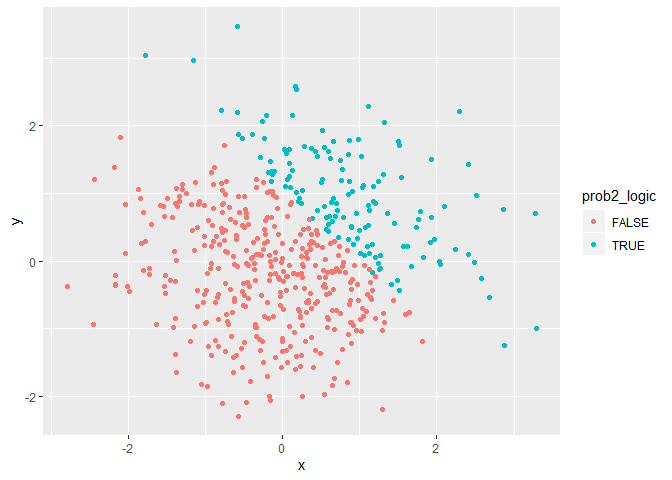
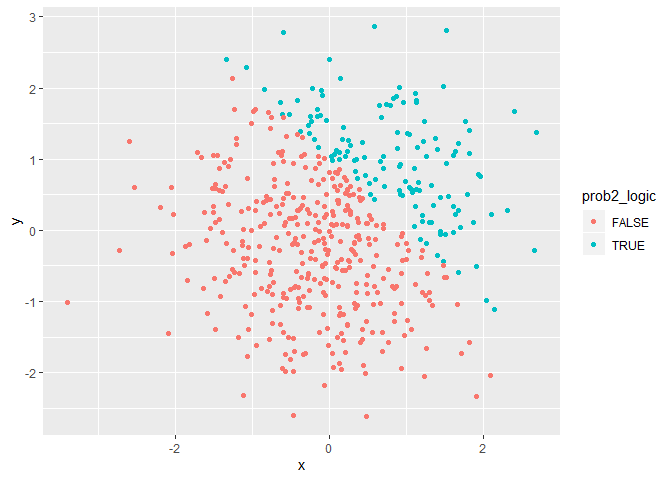
I completed my comments on part 1-1 and specified the types of vectors I had created more detailed.

diff --git a/p8105_hw1_ha2546.md b/p8105_hw1_ha2546.md
@@ -7,9 +7,9 @@ Hana Akbarnejad
 
 ## 1-1
 
-First, I am going to create a data frame containing a random sample and
-different vectors. On the next step, I have calculated the mean of each
-variable in my data frame.
+First, I have created a data frame containing a random sample, a
+logical, a character, and a factor vector. On the next step, I tried to
+calculate the mean of each variable in my data frame.
 
 ``` r
 prob1_df = tibble(
@@ -22,13 +22,13 @@ prob1_df = tibble(
 mean(pull(prob1_df, vec_sample))
 ```
 
-    ## [1] -0.2781207
+    ## [1] 0.4448709
 
 ``` r
 mean(pull(prob1_df, vec_logic))
 ```
 
-    ## [1] 0.125
+    ## [1] 0.875
 
 ``` r
 mean(pull(prob1_df, vec_char))
@@ -92,8 +92,8 @@ num_logic_calc = pull(prob1_df, vec_sample) * num_logic
 num_logic_calc
 ```
 
-    ## [1] 0.0000000 0.0000000 0.0000000 0.0000000 0.0000000 0.0000000 0.0000000
-    ## [8] 0.9462709
+    ## [1] 0.35015697 0.00000000 1.36147126 0.01372430 1.59422274 0.33405410
+    ## [7] 0.67128482 0.07655993
 
 ``` r
 factor_logic = as.factor(pull(prob1_df, vec_logic))
@@ -107,7 +107,7 @@ factor_logic_calc1 = pull(prob1_df, vec_sample) * factor_logic
 factor_logic
 ```
 
-    ## [1] FALSE FALSE FALSE FALSE FALSE FALSE FALSE TRUE 
+    ## [1] TRUE  FALSE TRUE  TRUE  TRUE  TRUE  TRUE  TRUE 
     ## Levels: FALSE TRUE
 
 ``` r
@@ -122,14 +122,14 @@ factor_logic_calc2 = pull(prob1_df, vec_sample) * num_factor_logic
 num_factor_logic
 ```
 
-    ## [1] 1 1 1 1 1 1 1 2
+    ## [1] 2 1 2 2 2 2 2 2
 
 ``` r
 factor_logic_calc2
 ```
 
-    ## [1] -0.0531174 -1.4955749 -0.0524929 -0.4237082 -0.2163673 -0.2536392
-    ## [7] -0.6763363  1.8925418
+    ## [1]  0.7003139 -0.8425065  2.7229425  0.0274486  3.1884455  0.6681082
+    ## [7]  1.3425696  0.1531199
 
   - **Results**
 
@@ -159,9 +159,9 @@ prob2_df = tibble(
 ```
 
 The size of my dataset for problem 2 (named prob2\_df) is 500, 5; which
-means it has 500 rows and 5columns. The mean of x is 0.0626211, its
-median is 0.0750084, and its standard deviation is 0.9952348. The
-proportion of cases for which x + y \> 1 is 0.276
+means it has 500 rows and 5columns. The mean of x is 0.0304388, its
+median is 0.0354005, and its standard deviation is 0.9512783. The
+proportion of cases for which x + y \> 1 is 0.262
 
 ## 2.2
 
